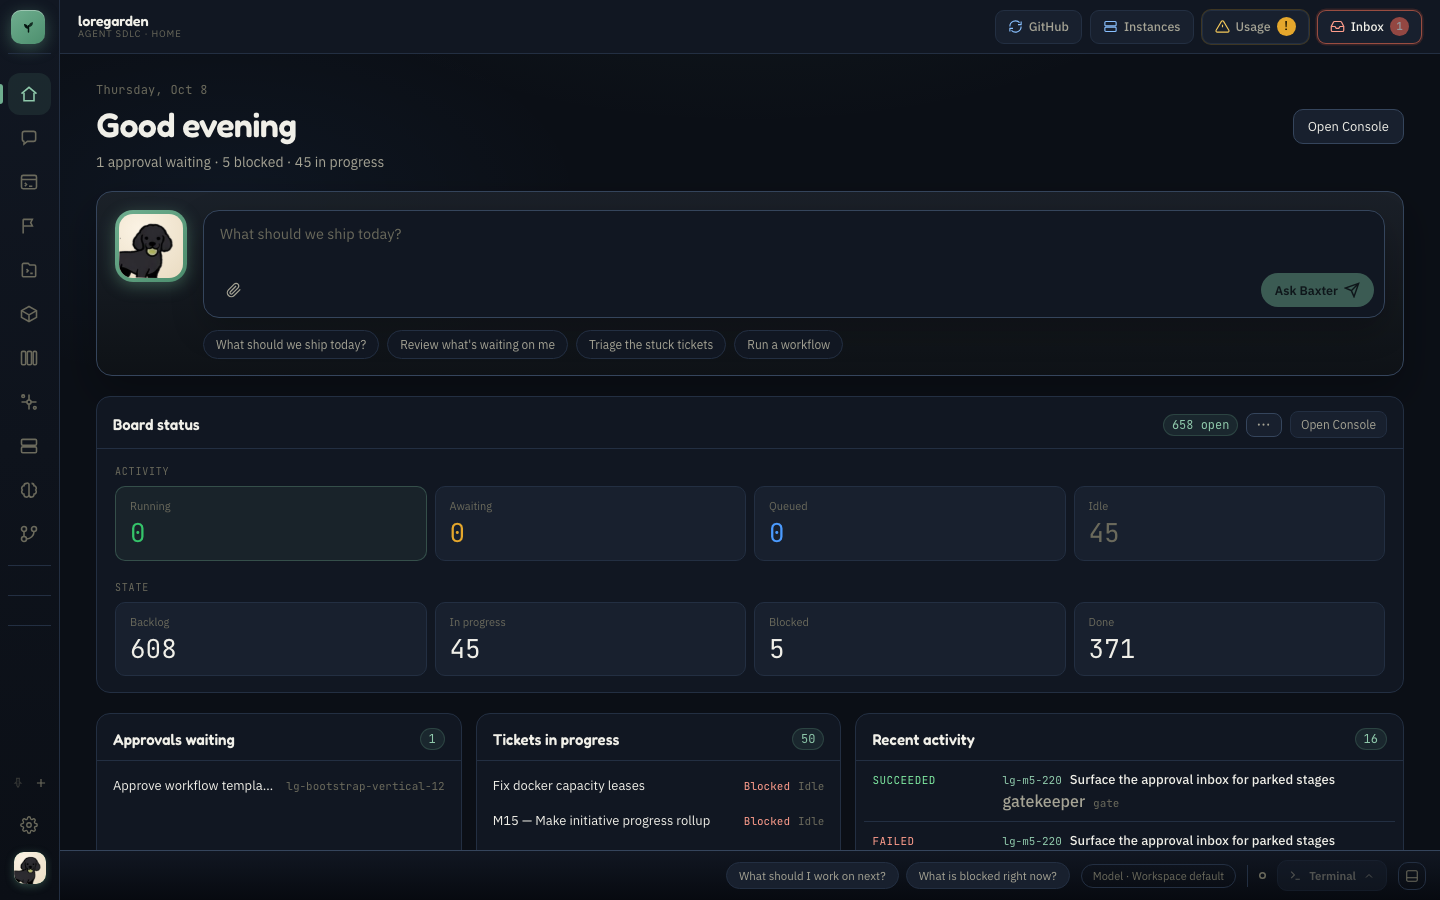
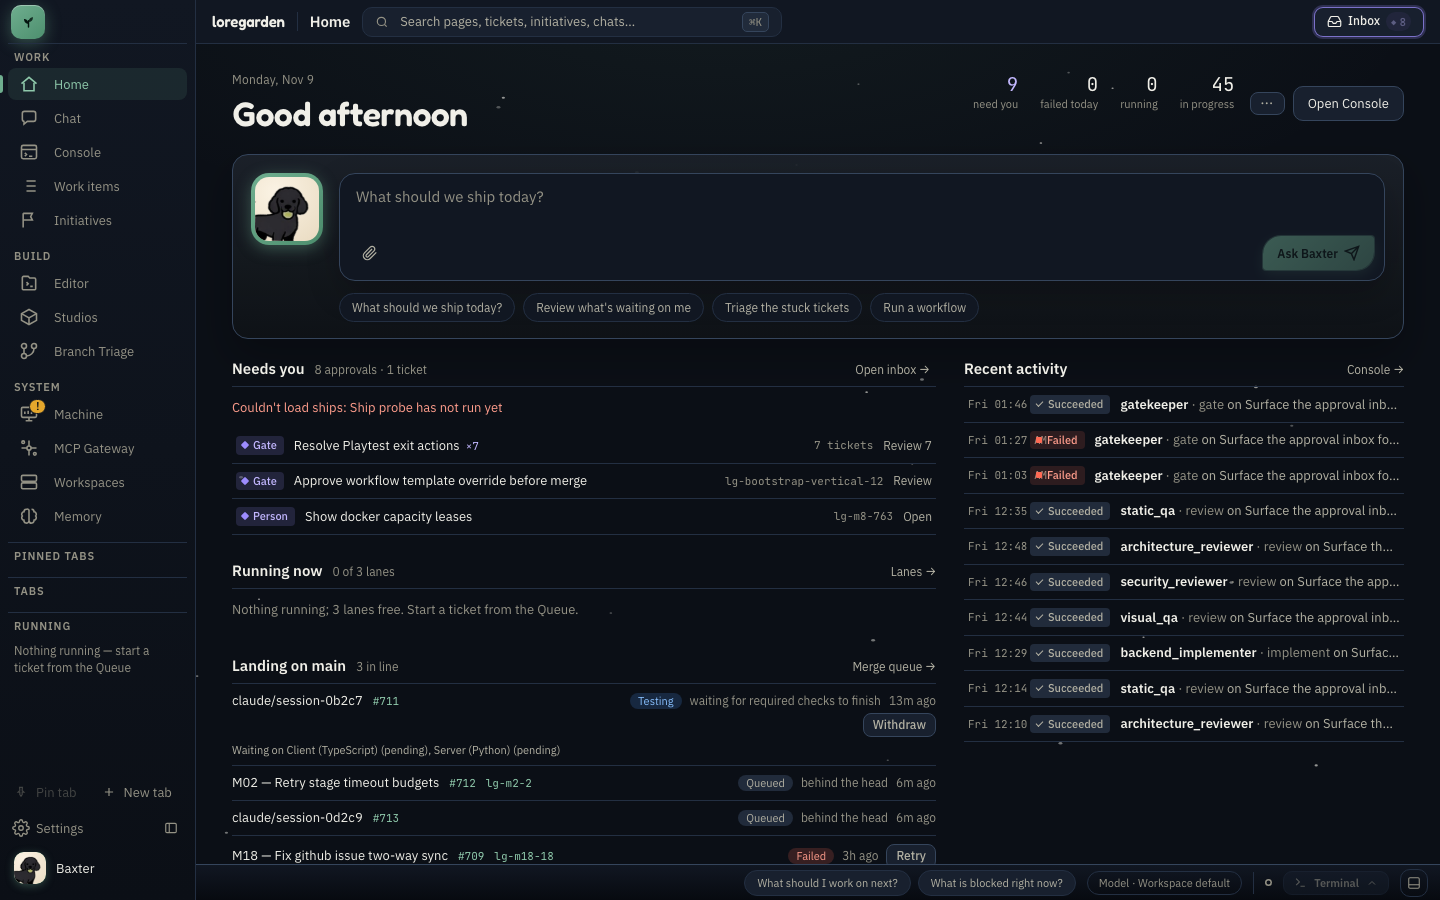
docs(plugin): capacity first in /garden; fresh screenshots and plugin install docs (lg-loregarden-as-2526)
- /garden draws Machine capacity before Needs you, so what holds the
  machine is read before what waits on it; the test now checks the
  section order it claimed to.
- README screenshots re-captured from the seeded sandbox (no live data),
  with captions matching what each page shows now, plus the /garden
  panel and its status line.
- README "Claude Code plugin" section: what it brings, install (GitHub
  or local checkout), configure (full id, restart to apply) and update.

diff --git a/claude-plugin/tests/garden.test.tsx b/claude-plugin/tests/garden.test.tsx
@@ -148,7 +148,9 @@ function engine(on: On, answer: (path: string) => Answer) {
 
 const SERVER = (path: string) => (path in ANSWERS ? ok(ANSWERS[path]) : down)
 
-test("home's sections, in home's order, answer from the server on every surface", async ($, on) => {
+const SECTION_TITLE = /^(Machine capacity|Needs you|Running now|Landing on main|Recent activity)\b/
+
+test("the panel's sections, capacity first, answer from the server on every surface", async ($, on) => {
   const seen = engine(on, SERVER)
   await $.session.start({ cwd: '/', surface: 'desktop', isInteractive: true })
   await $.command.run(GARDEN)
@@ -158,6 +160,12 @@ test("home's sections, in home's order, answer from the server on every surface"
 
   for (const surface of ['terminal', 'desktop'] as const) {
     const ui = await $.ui.mount({ ...PANE, surface })
+
+    // Machine capacity comes first, so what holds the machine is read before what waits on it.
+    const titles = (await ui.findAll({ type: 'Text', text: SECTION_TITLE }))
+      .map(t => SECTION_TITLE.exec(t.text)?.[1])
+      .filter((t, i, all) => t !== undefined && all.indexOf(t) === i)
+    expect(titles).toEqual(['Machine capacity', 'Needs you', 'Running now', 'Landing on main', 'Recent activity'])
 
     // Needs you: 14 identical gates are one row ×14; the failures are one row per ticket and stage.
     expect(await ui.find({ type: 'Text', text: /15 approvals · 2 failed · 1 ticket/ })).toBeDefined()

diff --git a/claude-plugin/hooks/garden.tsx b/claude-plugin/hooks/garden.tsx
@@ -594,10 +594,10 @@ export const register: Register = (on, options) => {
       <Box flexDirection="column" gap={1}>
         {kpis}
         {banners}
+        {machine}
         {needs}
         {running}
         {landing}
-        {machine}
         {activity}
       </Box>,
     )

diff --git a/README.md b/README.md
@@ -2,7 +2,7 @@
 
 Loregarden is an Agent SDLC IDE: a local control plane for orchestrating multi-agent software development. It tracks work as tickets in SQLite, runs agents through configurable pipelines, isolates concurrent work in Git worktrees, surfaces approval prompts in an inbox, and exposes the same workflow tools over MCP.
 
-![Home board](docs/screenshots/home.png)
+![Home: what needs you, what is running, what is landing on main, and recent agent activity](docs/screenshots/home.png)
 
 ## Architecture
 
@@ -20,25 +20,26 @@ The database is the source of truth for tickets, workflow templates, agent defin
 
 - Ticket planning and execution through configurable, versioned multi-agent workflows
 
-  ![Ticket console showing a run's stage timeline beside the workspace tree](docs/screenshots/console.png)
+  ![Console listing every workspace beside its work items, with status, blocker and type filters](docs/screenshots/console.png)
 
 - Concurrent runs isolated in Git worktrees, with optional commit, push, pull-request, merge, and conflict-resolution automation
 
-  ![Parallel execution queue with three worktree lanes](docs/screenshots/queue.png)
+  ![Parallel execution queue with three worktree lanes and the queue's status](docs/screenshots/queue.png)
 
 - Initiatives, which group milestones across workspaces, with a dependency-graph planning page, suggested sprints, and an autopilot that paces tickets into the queue
 
-  ![Initiative plan with a milestone schedule and the planning agent](docs/screenshots/initiatives.png)
+  ![An initiative's milestones across three workspaces, above the milestones not yet in one](docs/screenshots/initiatives.png)
 
 - Human approval gates and permission bridging for supervised CLI agents
 - Transition gates (lint, organization, silent-failure, UX-state, theme) that run on every stage handoff, with Gate Studio to see and edit them
 - Baxter workspace, ticket, and branch chat backed by the live control plane
 - Agent and workflow editing in Studio with version history and restore
 
-  ![Agent Studio editing a built-in agent's role and runtime config](docs/screenshots/agent-studio.png)
+  ![Agent Studio ranking agents by failure rate, with the stage each fails at most](docs/screenshots/agent-studio.png)
 
 - Flex-grid and canvas views composed from reusable IDE panels
 - MCP access over HTTP, stdio, or the in-process `loregarden` CLI
+- A Claude Code plugin that brings the MCP tools, skills, guardrail hooks and a `/garden` panel into every Claude Code session (see [Claude Code plugin](#claude-code-plugin))
 - Local run accounting plus Claude, Cursor, and Codex usage visibility
 - A host and Docker capacity ledger that queues agent runs and gates so concurrent work does not overload the machine
 - A run monitor that turns thrashing, stalled, and drifted runs into tickets
@@ -130,6 +131,69 @@ task workspace:docs  -- <workspace-root>   # control-plane section in AGENTS.md
 ```
 
 `task workspace:hooks:pr` lands a refreshed hook block as one PR per repo instead of editing checkouts in place. See [CLAUDE.md](CLAUDE.md) for details.
+
+## Claude Code plugin
+
+`claude-plugin/` packages Loregarden for Claude Code, so a session in any repository gets:
+
+- the `loregarden` MCP server, so its tools work outside this checkout;
+- the cross-repo skills (`autopilot`, `reference-survey`, `refactor`, `human-verification-brief`);
+- the guardrail hooks: commit signing, the PR "User-facing surfaces" check and the duplicate-work check. Each one steps aside in a repository that ships its own copy;
+- `/garden`, a panel beside the chat showing what Home shows, without Baxter: machine capacity, what needs you, running lanes, the merge queue and recent activity.
+
+![The /garden panel: machine capacity with the suite holding it and two commands waiting, then what needs you](docs/screenshots/garden-panel.png)
+
+While the plugin is loaded, the status line keeps a one-line summary, even with the panel closed:
+
+![Status line reading "21 need you · 2 waiting for capacity"](docs/screenshots/garden-status.png)
+
+It needs a running Loregarden server (`task server` or `task dev`). `/garden` needs Claude Code 2.1.317 or newer.
+
+### Install
+
+From GitHub:
+
+```bash
+claude plugin marketplace add laazer/loregarden
+claude plugin install loregarden@loregarden
+```
+
+From a local checkout, which is read straight from the folder, so your edits take effect on `/reload-plugins` with no reinstall:
+
+```bash
+claude plugin marketplace add /path/to/loregarden
+claude plugin install loregarden@loregarden
+```
+
+Inside a session, the same commands work as `/plugin marketplace add …` and `/plugin install …`. Then type `/garden` to open the panel.
+
+### Configure
+
+The panel reads `http://127.0.0.1:8000` and links into `http://localhost:5173` by default. To point it elsewhere, for example at `task sandbox`:
+
+```bash
+claude plugin configure loregarden@loregarden   # shows the options and which are set
+echo '{"serverUrl": "http://127.0.0.1:8123", "appUrl": "http://localhost:5174"}' \
+  | claude plugin configure loregarden@loregarden --values-stdin
+```
+
+Options left out keep their values. Restart Claude Code to apply them. `/plugin configure loregarden@loregarden` does the same inside a session.
+
+The MCP server reads `LOREGARDEN_MCP_URL` from the environment Claude Code starts in (default `http://127.0.0.1:8000/mcp`).
+
+### Update
+
+A GitHub install runs the copy made when it was installed. Pull the latest commit with:
+
+```bash
+claude plugin marketplace update loregarden
+claude plugin update loregarden@loregarden
+```
+
+Then run `/reload-plugins` in open sessions, or restart them. A local-checkout install needs only `/reload-plugins` after you pull.
+
+> [!NOTE]
+> The skills and guardrail hooks are symbolic links into `agent_context/skills/` and `.claude/hooks/`. A local-checkout install resolves them. A GitHub install has not been verified to keep them yet; if the skills or hooks are missing after one, install from a local checkout instead.
 
 ## Desktop app
 
